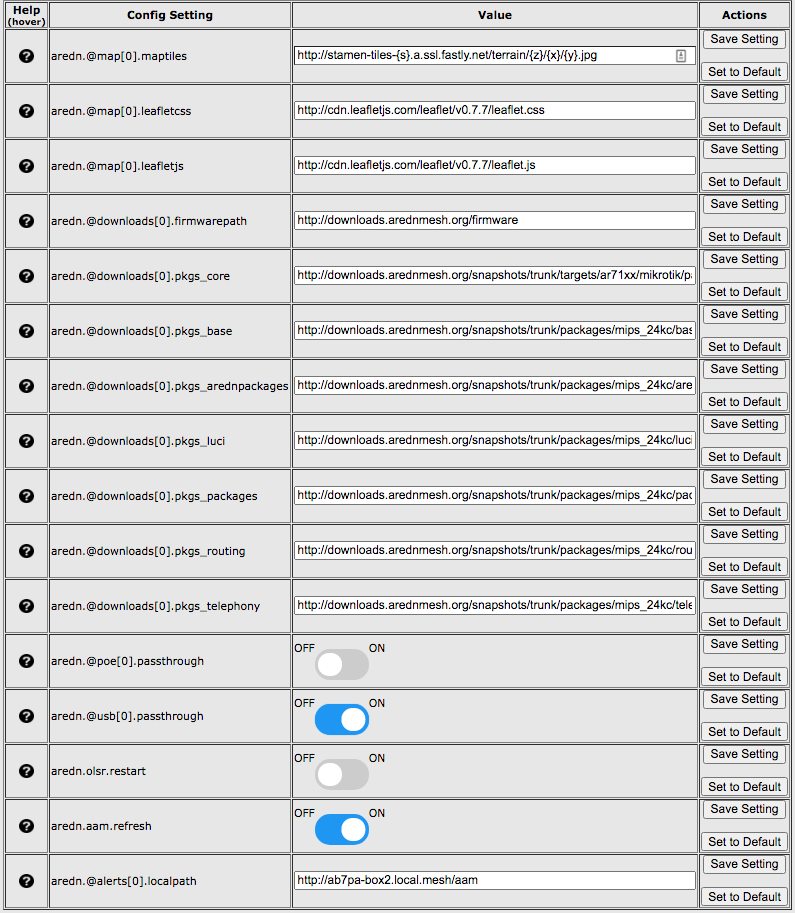
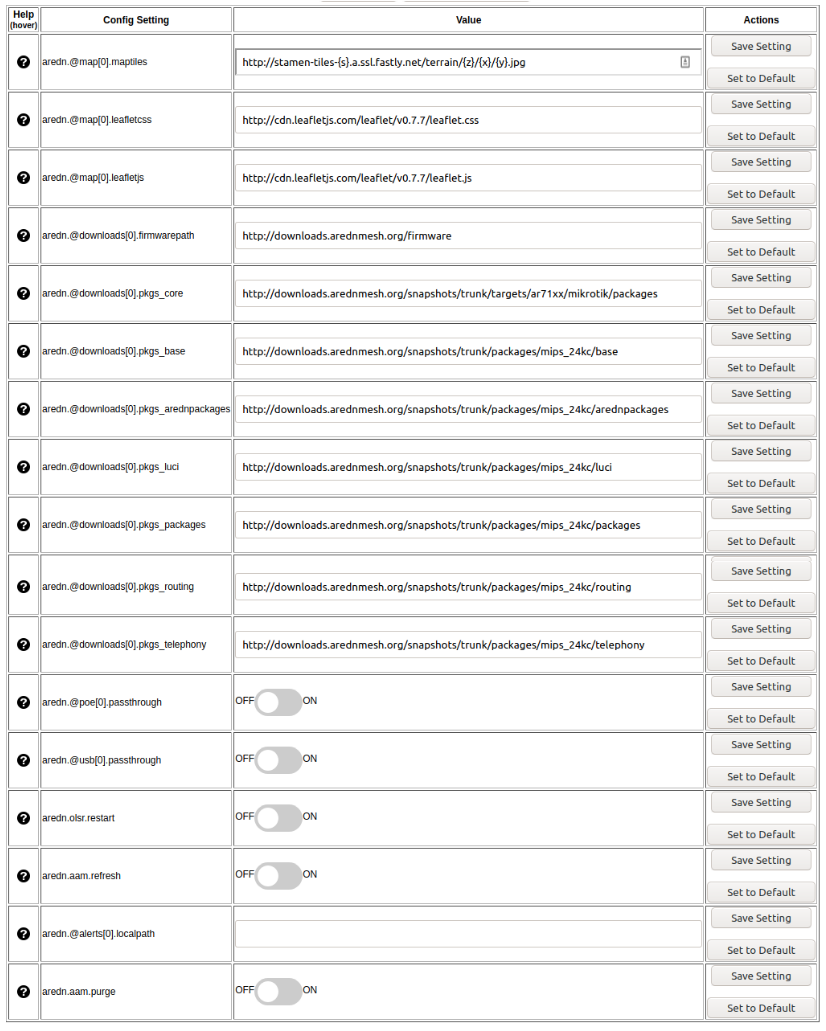
Add AAM purge to advConfig
Add the new AAM purge description in the Advanced Configuration section.

Changed region(s): [[0.0, 0.0, 0.9962, 1.0]]

diff --git a/conf.py b/conf.py
@@ -24,9 +24,9 @@ copyright = u'2021, Amateur Radio Emergency Data Network, Inc. Licensed under th
 author = u'Amateur Radio Emergency Data Network, Inc.'
 
 # The short X.Y version
-version = u'3.21.3.0'
+version = u'3.20.3.1'
 # The full version, including alpha/beta/rc tags
-release = u'3.21.3.0'
+release = u'3.20.3.1 + NB features'
 
 
 # -- General configuration ---------------------------------------------------

diff --git a/arednGettingStarted/advanced_config.rst b/arednGettingStarted/advanced_config.rst
@@ -318,27 +318,28 @@ OLSR Restart
   There is a known intermittent issue that may occur when a node boots. If OLSR fails to propagate information or does not receive all the network hostnames, a one-time restart of OLSR should resolve the issue. OLSR should be restarted on your node if other nodes' *Mesh Status* display have your node's IP address rather than hostname or if "dtdlink" or "mid" is shown in your node's hostname on their *Mesh Status* display. If your node's *Mesh Status* display shows the IP address rather than hostname for a remote node, then that remote node should restart OLSR.
 
 AREDN Alert Message (AAM) Refresh
-  The AREDN |trade| development team may post messages which Internet-connected nodes will automatically retrieve once every 12 hours. You can use this refresh setting if you want your node to retrieve any new messages without having to wait for the next auto-refresh window.  Move the slider to **ON** and click *Save Setting* to trigger an immediate message retrieval.
+  The AREDN |trade| development team may post messages which Internet-connected nodes will automatically retrieve once every 12 hours. You can use this refresh setting if you want your node to retrieve any new messages without having to wait for the next auto-refresh window.  Move the slider to **ON** and click *Save Setting* to trigger an immediate message retrieval. This will retrieve all alerts eligible for display on your node, whether they come from the AREDN |trade| server over the Internet or from a local message source on your mesh network.
 
 AREDN Alerts Local Path
   This field allows you to enter the URL for a local alert message repository. If you configure such a local repository then your nodes without Internet access can also receive alert messages pertinent to your local mesh. As shown below, enter the URL without a trailing backslash.
 
-.. image:: _images/alertlocalpath.png
-   :alt: Local Alert Message Repository Path
-   :align: center
+  .. image:: _images/alertlocalpath.png
+     :alt: Local Alert Message Repository Path
+     :align: center
 
-A local message repository should be configured on a mesh-connected web server which allows nodes to query the URL you provided. No Internet access is required for this feature to work as designed. You can consult with your local web server administrator in order to obtain the correct URL for the local message repository. Use the following file naming convention on the web server:
+  A local message repository should be configured on a mesh-connected web server which allows nodes to query the URL you provided. No Internet access is required for this feature to work as designed. You can consult with your local web server administrator in order to obtain the correct URL for the local message repository. Use the following file naming convention on the web server:
 
-* Create text files for individual nodes by using only lowercase characters with the exact node name, followed by the ``.txt`` extension as shown below.
-* To create a broadcast message intended for all local nodes, enter your message text in a file named ``all.txt`` using only lowercase characters for the filename.
+  * Create text files for individual nodes by using only lowercase characters with the exact node name, followed by the ``.txt`` extension as shown below.
+  * To create a broadcast message intended for all local nodes, enter your message text in a file named ``all.txt`` using only lowercase characters for the filename.
 
-.. image:: _images/url-content.png
-   :alt: Local Alert Message Repository Content
-   :align: center
+  .. image:: _images/url-content.png
+     :alt: Local Alert Message Repository Content
+     :align: center
 
-It is possible to include HTML tags in your message text, such as using the ``<br />`` tag to display subsequent text on the next line. However, it is best practice to keep alert messages short in order to minimize the height of the alert banner displayed on node webpages.
+  It is possible to include HTML tags in your message text, such as using the ``<br />`` tag to display subsequent text on the next line. However, it is best practice to keep alert messages short in order to minimize the height of the alert banner displayed on node webpages.
 
-----------
+AREDN Alert Message Purge
+  Use this purge setting if you want to immediately remove the AREDN |trade| Alert Message banner from your node. Move the slider to **ON** and click *Save Setting* to trigger an immediate message banner removal. This will remove all alert messages, whether they originated from the AREDN |trade| server over the Internet or from a local message source on your mesh network.
 
 Node Reset Button
 -----------------
